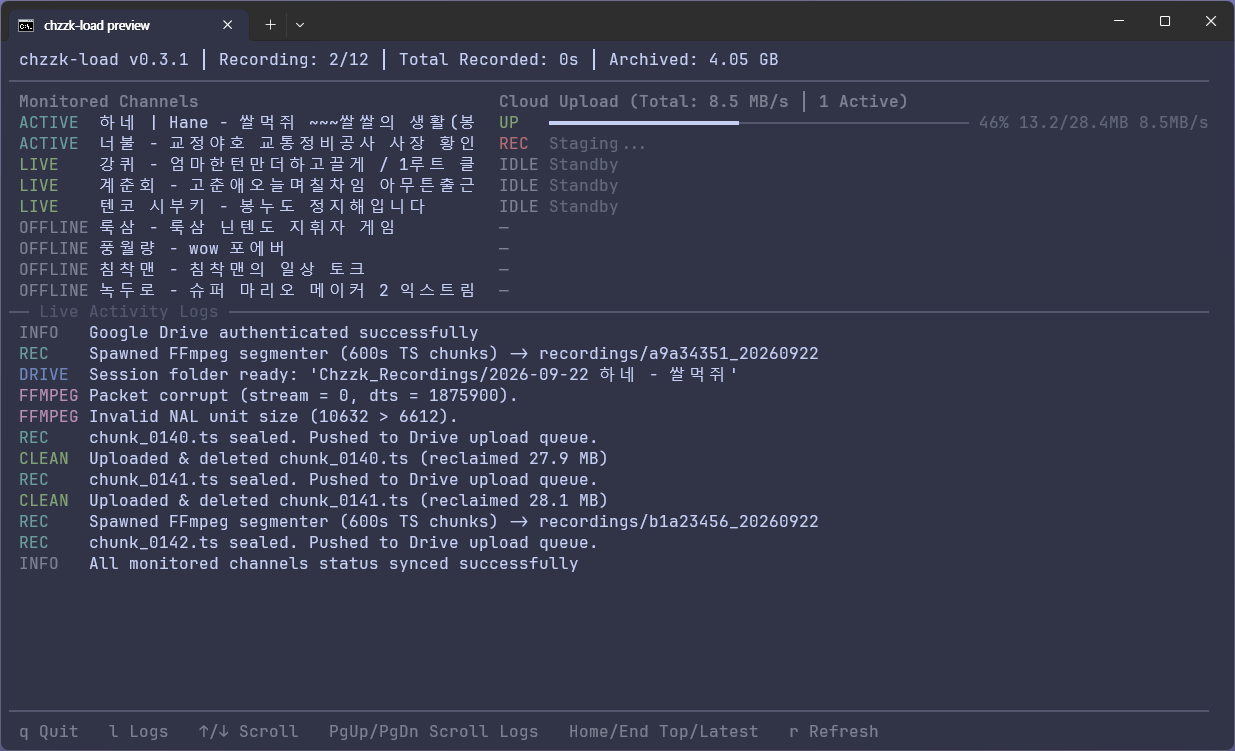
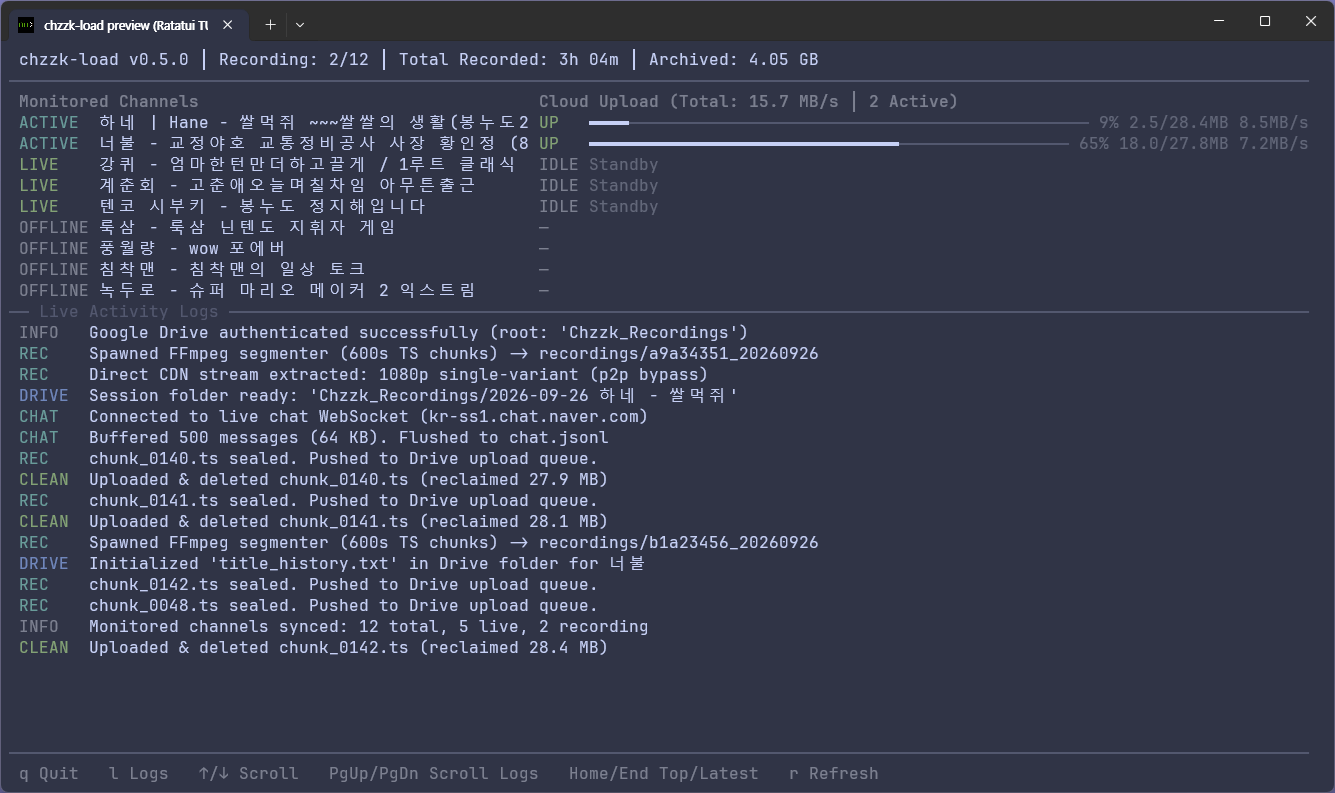
docs: update AGENTS.md, README, and preview asset for v0.5.0

Changed region(s): [[0.0, 0.0, 0.9846, 0.8269], [0.0, 0.9188, 0.9846, 1.0]]

diff --git a/AGENTS.md b/AGENTS.md
@@ -10,13 +10,16 @@ Welcome to `chzzk-load`. This document serves as the primary technical specifica
 
 ### Key System Characteristics
 - **Standalone Binary**: Compiles directly into an independent executable (`chzzk-load.exe`) runnable without Cargo or external runtime environments (FFmpeg must be installed and available on `PATH`, or configured via `CHZZK_LOAD_FFMPEG_BIN`).
-- **Zero CPU Transcoding**: Uses FFmpeg stream-copy (`-c copy`) to segment raw HLS video streams into `.ts` files with near-zero CPU and RAM overhead.
+- **Zero CPU Transcoding & Clean Termination**: Uses FFmpeg stream-copy (`-c copy`) to segment raw HLS video streams into `.ts` files with near-zero CPU and RAM overhead. HTTP reconnect flags (`-reconnect_at_eof`, etc.) are intentionally omitted to guarantee instant, clean termination upon natural stream completion.
+- **Direct CDN Stream Extraction (P2P/Grid Bypass)**: Automatically decodes base64-encoded `cdn_url` query parameters embedded in Chzzk `p2pPath` and `p2pPathUrlEncoding` payloads, extracting direct single-variant CDN HLS streams (prioritizing 1080p, 720p, and top-quality video) without requiring proprietary P2P or grid software.
 - **Real-Time Live Chat Archiving**: Concurrently connects to Chzzk chat WebSockets, capturing structured JSON Lines logs (`chat.jsonl`) with message timestamps, user badges, donation details, and raw payload.
-- **Flash-Friendly Batched I/O (SBC Optimized)**: Minimizes write cycles to protect microSD and flash memory longevity on Single Board Computers (Raspberry Pi/ARM64) using an in-memory buffer (`ChatWriter`) with dual-trigger flushing (500 messages / 64 KB capacity, or periodic timer interval).
+- **Flash-Friendly Batched I/O (SBC Optimized)**: Minimizes write cycles to protect microSD and flash memory longevity on Single Board Computers (Raspberry Pi/ARM64) using an in-memory buffer (`ChatWriter`) with direct byte-buffer serialization and dual-trigger flushing (500 messages / 64 KB capacity, or periodic timer interval).
 - **Strictly Bounded Disk Footprint**: Only 1–2 video segments reside on disk simultaneously per active stream. Chunks and completed chat logs are deleted immediately upon receiving an HTTP 200/201 upload confirmation.
 - **N+1 Segment Boundary Safety**: Chunk $N$ is only sealed and queued for upload after chunk $N+1$ exists on disk with file size $> 0$ bytes (or upon final stream termination), guaranteeing no partial chunks are uploaded.
 - **Dynamic Title Tracking & Folder Sync**: Detects stream title changes during broadcasts, records them to `title_history.txt`, and automatically synchronizes Google Drive folder names in real time.
+- **Resilient Cloud Sync with Exponential Backoff**: Caches Google Drive root folder IDs, retries transient network errors and HTTP 429 rate limits with exponential backoff, and maintains a resilient `pending_chunks` fallback queue to prevent segment loss during transient outages.
 - **Anti-Race Cache Deduplication**: Protects against Chzzk CDN cache TTL delays (10–30s) by tracking finished broadcast `live_id`s and enforcing a post-recording cooldown to prevent duplicate sessions.
+- **Event-Driven Zero-Alloc TUI**: Employs `crossterm::event::EventStream` and event-driven redraw scheduling with zero-allocation borrowed log rendering and zero CPU spinning.
 
 ---
 
@@ -39,37 +42,37 @@ chzzk-load/
 │       ├── package.json      # Wrapper package definition with optionalDependencies
 │       └── README.md
 ├── scripts/
-│   ├── prepare-npm.js        # Platform package generator & binary bundler
+│   ├── prepare-npm.js        # Platform package generator & binary bundler (--resolve-release)
 │   └── test-npm-packages.js  # Automated mock packaging & execution test suite
 ├── src/
-│   ├── main.rs               # CLI entrypoint, signals, panic hooks, TUI event loop
+│   ├── main.rs               # CLI entrypoint, signals, panic hooks, EventStream TUI render loop
 │   ├── lib.rs                # Module root and library exports
 │   ├── app_path.rs           # Portable executable-relative path resolution
-│   ├── config.rs             # Settings structs, defaults, and serde loaders (record_chat, chat_flush_interval_seconds)
+│   ├── config.rs             # Settings structs, defaults, and serde loaders (upload_concurrency, record_chat)
 │   ├── chzzk/                # Chzzk API integration
 │   │   ├── mod.rs
-│   │   ├── client.rs         # ChzzkClient: live detail polling, HLS URL extraction, chat access token API
+│   │   ├── client.rs         # ChzzkClient: live detail polling, P2P/CDN HLS URL extraction, chat token API
 │   │   ├── chat.rs           # ChzzkChatClient: WebSocket handshake (cmd: 100), ping-pong, auto-reconnect backoff
 │   │   ├── models.rs         # Data structures: LiveDetailContent, LiveStreamInfo, etc.
-│   │   └── models_chat.rs    # Chat models: ChatAccessTokenResponse, RecordedChatMessage, WebSocket packet envelopes
+│   │   └── models_chat.rs    # Chat models: ChatAccessTokenResponse, RecordedChatMessage, WebSocket envelopes
 │   ├── recorder/             # FFmpeg process management, watcher & chat writer
 │   │   ├── mod.rs
-│   │   ├── ffmpeg.rs         # Command builder (-extension_picky 0, piped stderr, CHZZK_LOAD_FFMPEG_BIN)
-│   │   ├── watcher.rs        # SegmentWatcher, N+1 chunk sealing logic
-│   │   └── chat_writer.rs    # ChatWriter: in-memory batched writer with dual-trigger flush
+│   │   ├── ffmpeg.rs         # Command builder (-extension_picky 0, clean EOF termination, CHZZK_LOAD_FFMPEG_BIN)
+│   │   ├── watcher.rs        # SegmentWatcher, N+1 chunk sealing logic, zero-alloc extension check
+│   │   └── chat_writer.rs    # ChatWriter: byte-buffer direct serializer with dual-trigger flush
 │   ├── drive/                # Google Drive API v3 client & OAuth2
 │   │   ├── mod.rs
 │   │   ├── auth.rs           # DriveAuth: PKCE authorization flow, token refresh
-│   │   └── client.rs         # DriveClient: folder search/creation, resumable uploads, rename
+│   │   └── client.rs         # DriveClient: folder caching, exponential backoff retries, resumable uploads, rename
 │   ├── uploader/             # Upload pipeline
 │   │   ├── mod.rs            # UploadTask, UploadWorker (upload-and-delete pipeline)
 │   ├── engine/               # Central orchestrator
-│   │   └── mod.rs            # EngineOrchestrator: channel polling, sessions, chat task, title history, upload consumer
+│   │   └── mod.rs            # EngineOrchestrator: channel polling, sessions, rate-limit queue, upload consumer
 │   └── tui/                  # Ratatui Dashboard
 │       ├── mod.rs
 │       ├── app.rs            # App state, key event handling, channel list state, chat_count telemetry
 │       ├── event.rs          # Central AppEvent enum (ChatStats, LogEntry::chat)
-│       └── ui.rs             # draw_ui: Layout constraints, strictly bounded logs view, chat badges
+│       └── ui.rs             # draw_ui: Layout constraints, strictly bounded zero-alloc logs view, chat badges
 └── tests/                    # Integration and smoke tests
     ├── test_app_path.rs
     ├── test_chat_client.rs
@@ -99,6 +102,9 @@ chzzk-load/
    - If valid and unrecorded, registers the channel into `active_recordings` and spawns `spawn_recording_session`.
 3. When the channel returns `status == "CLOSE"`:
    - Clears any `finished_sessions` tracking entry, resetting the channel for future broadcasts.
+4. **Non-Blocking Mutex Scoping & Rate-Limit Resiliency**:
+   - The orchestrator minimizes mutex hold times on `active_sessions` and `active_recordings`, releasing locks before issuing network requests (e.g. Drive folder creation or title sync).
+   - If Google Drive folder creation encounters transient 429 rate limits or errors, sealed chunks accumulate safely in an in-memory `pending_chunks` deque. Upon folder resolution or stream shutdown, all pending chunks are drained and dispatched to Drive, preventing segment loss.
 
 ### 3.2. FFmpeg Recording & N+1 Watcher (`src/recorder/`)
 - `build_ffmpeg_command` spawns an independent FFmpeg child process with:
@@ -107,8 +113,9 @@ chzzk-load/
   - `-c copy`: Zero re-encoding overhead.
   - `stdin(Stdio::piped())`: Enables graceful termination via `"q\n"`.
   - `stdout(Stdio::null())` & `stderr(Stdio::piped())`: Prevents raw child process output from leaking into the terminal and corrupting the TUI raw mode buffer. Stderr lines are asynchronously drained into `AppEvent::Log("[FFMPEG] ...")`.
+  - **Clean Termination on Manifest EOF**: HTTP reconnect flags (`-reconnect`, `-reconnect_at_eof`, `-reconnect_streamed`, `-reconnect_delay_max`) are intentionally omitted. When a live broadcast ends naturally, the HLS playlist reaches EOF and FFmpeg exits immediately without entering infinite reconnect retry loops.
 - `SegmentWatcher` polls the session folder every second:
-  - Finds `.ts` files sorted lexicographically (`chunk_0000.ts`, `chunk_0001.ts`, ...).
+  - Uses zero-allocation ASCII suffix matching (`s[s.len() - 3..].eq_ignore_ascii_case(".ts")`) to scan `.ts` files sorted lexicographically (`chunk_0000.ts`, `chunk_0001.ts`, ...).
   - Emits chunk $N$ as sealed only when chunk $N+1$ exists with size $> 0$.
   - When the child process exits (`is_stream_finished = true`), seals the final lingering chunk.
 
@@ -116,16 +123,19 @@ chzzk-load/
 - When `settings.general.record_chat` is enabled and `info.chat_channel_id` is present:
   1. Requests chat access token from `https://comm-api.game.naver.com/nng_main/v1/chats/access-token`.
   2. Spawns `ChzzkChatClient` connecting via WebSocket to `wss://kr-ss{n}.chat.naver.com/chat`.
-  3. Sends `cmd: 100` (`CONNECT`) handshake with 10-second read timeout. Automatically handles server ping (`cmd: 0` $\to$ pong `cmd: 10000`) and 20-second client heartbeat pings.
-  4. Parses chat messages (`cmd: 93101`, `93102`), extracting timestamp, user info, message text, donations (cheese), and raw payload.
+  3. Sends `cmd: 100` (`CONNECT`) handshake with 10-second read timeout. Automatically handles server ping (`cmd: 0` $\to$ pong `cmd: 10000`) using pre-allocated static payloads (`PING_PAYLOAD`, `PONG_PAYLOAD`) and 20-second client heartbeat pings.
+  4. Parses chat messages (`cmd: 93101`, `93102`) using zero-clone owned deserialization (`parse_chat_packet_owned`), extracting timestamp, user info, message text, donations (cheese), and raw payload.
   5. Telemetry counts are relayed non-blockingly (`try_send`) to `AppEvent::ChatStats`.
-  6. **Flash Longevity Buffer (`ChatWriter`)**: Messages are queued in memory and written to `<session_dir>/chat.jsonl` using dual-trigger flushing (500 messages or 64 KB capacity, or periodic timer interval `chat_flush_interval_seconds`). No per-message `fsync` is performed during streaming.
+  6. **Flash Longevity Buffer (`ChatWriter`)**: Messages are serialized directly into a pre-allocated byte buffer (`Vec<u8>`) using `serde_json::to_writer`, avoiding intermediate string allocations. Buffered data is written to `<session_dir>/chat.jsonl` using dual-trigger flushing (500 messages or 64 KB capacity, or periodic timer interval `chat_flush_interval_seconds`). No per-message `fsync` is performed during streaming.
   7. On session cancellation or stream termination, flushes all remaining records, guaranteeing zero lost messages.
 
 ### 3.4. Google Drive Upload Pipeline & Title History Sync (`src/drive/` & `src/uploader/`)
 - Sealed chunks are sent over an `mpsc::Sender<UploadTask>` channel to `spawn_upload_consumer_with_concurrency`.
-- **Per-Channel Serialization & Cross-Channel Concurrency**: To prevent uplink bandwidth contention, disk accumulation, and Google Drive segment ordering disruption, chunks belonging to the same channel are strictly serialized in FIFO order. Independent channels upload concurrently up to `concurrency` (default: 3) using fair round-robin scheduling.
-- **High-Throughput Streaming Buffer**: Resumable file streaming uses an 8 MiB buffer (`RESUMABLE_UPLOAD_BUFFER_SIZE`, 32 * 256 KiB) via `FramedRead`, eliminating thread-pool switching overhead and saturating uplink bandwidth on high-speed networks.
+- **Per-Channel Serialization & Cross-Channel Concurrency**: To prevent uplink bandwidth contention, disk accumulation, and Google Drive segment ordering disruption, chunks belonging to the same channel are strictly serialized in FIFO order. Independent channels upload concurrently up to `upload_concurrency` (default: 3) using fair round-robin scheduling.
+- **Root Folder ID Caching**: Root folder lookups are executed once and cached, eliminating repetitive Drive API searches.
+- **Exponential Backoff Retries**: API operations and chunk streaming use `send_with_retry`, retrying up to 3 times with exponential backoff (`100ms * 2^(attempt-1)`) on HTTP 429 rate limits or transient 5xx errors.
+- **High-Throughput Streaming Buffer**: Resumable file streaming uses a buffer dynamically clamped between 64 KiB and 8 MiB (`(file_size as usize).clamp(64 * 1024, RESUMABLE_UPLOAD_BUFFER_SIZE)`) via `FramedRead`, eliminating thread-pool switching overhead and saturating uplink bandwidth on high-speed networks.
+- **Accurate MIME Types**: Sets `video/mp2t` for video segments, `application/x-ndjson` for `chat.jsonl`, and `text/plain; charset=UTF-8` for `title_history.txt`.
 - Drive subfolders are created lazily by `process_sealed_chunk` only when the first valid chunk is confirmed sealed.
 - **Stream Title History**: If the broadcast title changes during a session, the engine appends the timestamped change to `title_history.txt`, and asynchronously renames the Google Drive folder via `drive.rename_folder`.
 - Resumable upload initiates with a `POST /upload/drive/v3/files?uploadType=resumable` metadata request, obtaining a session URI.
@@ -134,13 +144,15 @@ chzzk-load/
 - Upon recording session end, `chat.jsonl` is uploaded to the broadcast's Google Drive folder and deleted locally. If Drive is disabled, `chat.jsonl` is preserved on local disk.
 
 ### 3.5. Ratatui TUI Dashboard (`src/tui/`)
+- **Event-Driven Render Loop**: The main TUI event loop uses `crossterm::event::EventStream` and `tokio::select!` with biased selection. Rendering only executes when state actually changes (`needs_redraw = true`) or upon periodic 250ms animation ticks, eliminating idle CPU consumption.
 - Uses strict vertical layout constraints:
   - Header & Divider: `Constraint::Length(1)` each
   - Body: `Constraint::Length(10)` (or `Constraint::Fill(1)` when logs are hidden via 'l' key; horizontal split: Monitored Channels on left, Cloud Upload progress/status on right)
   - Logs Title Divider: `Constraint::Length(1)` & Logs Content: `Constraint::Fill(1)` (omitted when logs are toggled off via 'l' key)
   - Footer Divider & Keybind Footer: `Constraint::Length(1)` each
 - **Channel Row Telemetry**: Active recordings display segment count, elapsed duration, and live chat message count (`CHAT: {count}`).
-- **Log Slicing & Clipping**: Logs are flattened by `\n` to support multi-line error traces, and sliced to exactly `inner_height = log_area.height`. Lines exceeding `inner_width` are horizontally truncated with `…` to guarantee zero word-wrap overflow or terminal buffer scrolling. `[CHAT]` logs are rendered with a distinct cyan badge.
+- **Zero-Alloc Log Slicing & Clipping**: Logs are sliced directly from borrowed string lines using `.flat_map(...)` without intermediate `Vec` allocations, bounded to exactly `inner_height = log_area.height`. Lines exceeding `inner_width` are horizontally truncated with `…` to guarantee zero word-wrap overflow. `[CHAT]` logs are rendered with a distinct cyan badge.
+- **Zero-Alloc Dividers**: Horizontal dividers are generated via zero-allocation slicing of a static `HORIZONTAL_RULE` string.
 - **Log Scrolling**: Tail auto-scroll is maintained by default (`log_scroll = 0`). Users can navigate history using `PageUp`, `PageDown`, `Home`, and `End`.
 - **View Scrolling**: Channels and Cloud Upload scroll in synchronized lockstep using `Up`, `Down`, `k`, and `j`.
 
@@ -191,6 +203,7 @@ Instead of heavy Docker containers or slow QEMU system emulation for building AR
 - **Preparation Script (`scripts/prepare-npm.js`)**:
   - Dynamically constructs platform packages under `npm/platforms/` with appropriate `os`, `cpu`, and `libc` fields in their `package.json`.
   - Synchronizes versions across root and platform packages from CLI argument or `Cargo.toml`.
+  - Provides `--resolve-release` CLI option to determine tags, version, prerelease flags, and npm dist-tags for GitHub Actions workflows.
   - Copies native binary files into their respective platform packages.
 - **npm OIDC Trusted Publisher Authentication**:
   - Uses GitHub Actions OpenID Connect (OIDC) Trusted Publisher authentication. Long-lived `NPM_TOKEN` secrets are completely eliminated.
@@ -253,3 +266,6 @@ When implementing changes, AI agents must strictly preserve the following rules:
 7. **Flash Memory & Disk Wear Longevity**: Chat messages MUST NOT be synchronously flushed or fsynced to disk per message. All streaming chat writes must pass through `ChatWriter` with batching thresholds (500 msgs or 64 KB capacity, or periodic timer interval).
 8. **Non-Blocking Telemetry Backpressure**: Never block internal WebSocket reading or recording loops on TUI event channels (`try_send` should always be used for telemetry and stats reporting).
 9. **FFmpeg Binary Resolution**: `build_ffmpeg_command` must respect the `CHZZK_LOAD_FFMPEG_BIN` environment variable override before defaulting to `"ffmpeg"`.
+10. **Clean HLS Stream Termination (No Reconnect Flags)**: Never add `-reconnect` or `-reconnect_at_eof` flags to `build_ffmpeg_command`. Live HLS streams must terminate cleanly and promptly upon manifest EOF when the broadcast ends.
+11. **Non-Blocking Mutex Scoping in Engine**: Never hold the `active_sessions` or `active_recordings` mutex across asynchronous network I/O or Drive operations.
+

diff --git a/README.ko.md b/README.ko.md
@@ -17,14 +17,16 @@
 
 ## 주요 기능
 
-- ⚡ **무손실 스트림 복사 (`-c copy`)**: 라이브 HLS 비디오 스트림을 재인코딩 없이 원본 그대로 `.ts` 조각으로 분할하여 CPU 및 메모리 부하를 최소화합니다.
+- ⚡ **무손실 스트림 복사 및 깔끔한 정상 종료 (`-c copy`)**: 라이브 HLS 비디오 스트림을 재인코딩 없이 원본 그대로 `.ts` 조각으로 분할하여 CPU 및 메모리 부하를 최소화합니다. 재연결 플래그를 생략하여 방송 종료 시 HLS 매니페스트 EOF 무한 재시도 루프를 원천 차단합니다.
+- 🌐 **직접 CDN 스트림 주소 자동 추출 (P2P/그리드 우회)**: 치지직 `p2pPath` 플레이리스트에 포함된 base64 인코딩 `cdn_url` 매개변수를 자동 디코딩하여, 별도의 그리드 소프트웨어 설치 없이 원본 화질(1080p, 720p 등)의 직접 CDN HLS 스트림을 수집합니다.
 - 💬 **실시간 라이브 채팅 녹화 (`chat.jsonl`)**: WebSocket을 통해 실시간 방송 채팅을 동시 수집하여 타임스탬프, 사용자 닉네임, 뱃지, 후원(치즈) 내역, 메시지 내용이 포함된 구조화된 JSON Lines 형식으로 저장합니다.
-- 💽 **플래시 수명 보호 배치 I/O (SBC 최적화)**: 라즈베리 파이(Raspberry Pi), ARM64 등 단일 보드 컴퓨터(SBC)의 microSD 및 플래시 메모리 수명을 보존하기 위해 메모리 버퍼링 및 듀얼 트리거 플러시(500개 메시지 / 64KB 도달 또는 주기적 타이머)를 적용하여 디스크 I/O 빈도를 최소화합니다.
+- 💽 **플래시 수명 보호 배치 I/O (SBC 최적화)**: 라즈베리 파이(Raspberry Pi), ARM64 등 단일 보드 컴퓨터(SBC)의 microSD 및 플래시 메모리 수명을 보존하기 위해 바이트 버퍼 메모리 버퍼링 및 듀얼 트리거 플러시(500개 메시지 / 64KB 도달 또는 주기적 타이머)를 적용하여 디스크 쓰기 빈도를 최소화합니다.
 - 🏷 **실시간 방송 제목 추적 및 폴더 동기화**: 방송 중 변경되는 방제를 자동으로 감지하여 `title_history.txt`에 기록하고, Google Drive의 폴더 이름을 최신 방제로 실시간 자동 갱신합니다.
 - 💾 **엄격히 제한된 디스크 사용량**: 활성 스트림당 최대 1~2개의 세그먼트 파일만 로컬 디스크에 유지합니다. 클라우드 업로드 완료가 확인되는 즉시 영상 세그먼트와 채팅 로그 파일은 로컬에서 영구 삭제됩니다.
 - 🛡 **N+1 세그먼트 경계 안전성**: $N$번째 청크는 다음 $N+1$번째 청크가 디스크에 생성(파일 크기 > 0)된 것이 확인된 후에만 업로드 큐로 전달되어, 불완전하거나 손상된 청크의 업로드를 원천 차단합니다.
-- ☁ **Google Drive 이어올리기(Resumable) 및 로컬 폴백**: Google Drive API v3 및 자동 PKCE OAuth2 인증을 통한 클라우드 실시간 전송을 지원합니다. Google Drive 인증 설정이 없으면 자동으로 로컬 단독 녹화 모드로 동작합니다.
-- 🖥 **대화형 터미널 대시보드 (TUI)**: 실시간 채널 상태, 방송 제목, 실시간 수집 채팅 수 카운터, 업로드 진행률 게이지, 전송 속도 지표뿐만 아니라 헤더 요약 통계(활성 녹화 수, 누적 녹화 시간, 아카이브 용량), 로그 토글 기능(`l` 키), Windows 콘솔 UTF-8 코드페이지 자동 설정을 지원합니다.
+- ☁ **안정적인 Google Drive 이어올리기 및 로컬 폴백**: Google Drive API v3 및 자동 PKCE OAuth2 인증을 통한 클라우드 실시간 전송을 지원합니다. 루트 폴더 캐싱 및 지수 백오프 재시도(HTTP 429 및 5xx 대응)를 갖추고 있으며, Google Drive 인증 설정이 없으면 자동으로 로컬 단독 녹화 모드로 동작합니다.
+- 🔀 **채널별 순차 직렬화 & 다중 스트림 동시 업로드**: 동일 채널의 세그먼트는 순차(FIFO) 업로드를 보장하여 순서 꼬임과 대역폭 경합을 방지하며, 여러 채널 간에는 최대 `upload_concurrency`(기본값: 3)개까지 병렬 업로드합니다.
+- 🖥 **이벤트 기반 터미널 대시보드 (TUI)**: `crossterm::event::EventStream` 기반의 비동기 이벤트 루프와 제로 메모리 할당 렌더링으로 유휴 CPU 점유율을 0으로 억제하며, 실시간 채널 상태, 방송 제목, 실시간 수집 채팅 수 카운터, 업로드 진행률 게이지, 전송 속도 지표, 헤더 요약 통계(활성 녹화 수, 누적 녹화 시간, 아카이브 용량), 로그 토글 기능(`l` 키), Windows 콘솔 UTF-8 코드페이지 자동 설정을 지원합니다.
 - 🔄 **CDN 캐시 지연 중복 방지 (Anti-Race)**: 방송 종료 후 쿨다운 적용 및 방송 고유 세션 ID(`live_id`) 추적을 통해 치지직 CDN 캐시 지연(10~30초)으로 인한 중복 세션 생성을 방지합니다.
 
 ---
@@ -77,7 +79,8 @@ chzzk-load --config /path/to/my-settings.json
   "google_drive": {
     "credentials_path": "credentials.json",
     "token_path": "token.json",
-    "root_folder_name": "Chzzk_Recordings"
+    "root_folder_name": "Chzzk_Recordings",
+    "upload_concurrency": 3
   },
   "chzzk": {
     "nid_aut": "",
@@ -106,6 +109,7 @@ chzzk-load --config /path/to/my-settings.json
 | `google_drive.credentials_path` | `"credentials.json"` | Google Cloud에서 발급받은 OAuth2 데스크톱 클라이언트 비밀번호 파일 경로. |
 | `google_drive.token_path` | `"token.json"` | 발급받은 OAuth2 인증 토큰이 자동 저장 및 갱신되는 파일 경로. |
 | `google_drive.root_folder_name` | `"Chzzk_Recordings"` | Google Drive 내에 녹화 파일들이 업로드될 루트 폴더 이름. |
+| `google_drive.upload_concurrency` | `3` | 채널 간 동시 업로드 가능한 최대 스트림 수 (동일 채널 내 청크는 엄격한 FIFO 순서로 직렬 업로드됨). |
 | `chzzk.nid_aut` / `nid_ses` | `""` | 연령 제한 또는 구독자 전용 방송 녹화를 위한 네이버 로그인 세션 쿠키 값 (선택 사항). |
 | `channels` | - | 모니터링할 치지직 채널 목록 (`id`: 채널 URL의 고유 식별자, `name`: TUI 표시용 이름). |
 

diff --git a/README.md b/README.md
@@ -17,14 +17,16 @@ A high-performance, standalone tool for automated Naver Chzzk live stream record
 
 ## Key Features
 
-- ⚡ **Lossless Stream-Copy (`-c copy`)**: Segments live HLS video streams into `.ts` chunks with zero CPU transcoding overhead.
+- ⚡ **Lossless Stream-Copy & Clean EOF (`-c copy`)**: Segments live HLS video streams into `.ts` chunks with zero CPU transcoding overhead. Omits reconnect flags to eliminate infinite HLS manifest EOF retry loops upon natural stream completion.
+- 🌐 **Direct CDN Stream Extraction (P2P/Grid Bypass)**: Automatically decodes base64-encoded `cdn_url` parameters from Chzzk `p2pPath` playlists, pulling direct 1080p/720p CDN HLS streams without requiring P2P or grid software.
 - 💬 **Real-Time Live Chat Recording (`chat.jsonl`)**: Simultaneously captures live chat via WebSocket into structured JSON Lines format, preserving timestamps, user nicknames, badges, donations/cheeses, and message text.
-- 💽 **Flash-Friendly Batched I/O (SBC Optimized)**: Minimizes write cycles to protect microSD card and flash storage longevity on Single Board Computers (Raspberry Pi, ARM64) using in-memory buffering with dual-trigger flushing (500 messages / 64 KB capacity, or periodic timer interval).
+- 💽 **Flash-Friendly Batched I/O (SBC Optimized)**: Minimizes write cycles to protect microSD card and flash storage longevity on Single Board Computers (Raspberry Pi, ARM64) using in-memory byte buffering with dual-trigger flushing (500 messages / 64 KB capacity, or periodic timer interval).
 - 🏷 **Dynamic Title Tracking & Folder Sync**: Detects stream title changes during broadcasts, records them to `title_history.txt`, and automatically updates Google Drive folder names in real-time.
-- 💾 **Strictly Bounded Disk Footprint**: Only 1–2 video segments reside on disk per active stream. Chunks and completed chat logs are permanently deleted immediately upon verified cloud upload.
+- 💾 **Strictly Bounded Disk Footprint**: Only 1–2 video segments reside on disk simultaneously per active stream. Chunks and completed chat logs are permanently deleted immediately upon verified cloud upload.
 - 🛡 **N+1 Segment Boundary Safety**: Chunk $N$ is sealed and uploaded only when chunk $N+1$ exists on disk with size $> 0$, preventing partial or corrupted uploads.
-- ☁ **Resumable Google Drive Sync & Local Fallback**: Direct cloud upload via Google Drive API v3 with automatic PKCE OAuth2 authorization. Runs in local-only recording mode if Google Drive credentials are omitted.
-- 🖥 **Interactive Terminal Dashboard**: Real-time channel states, live stream titles, chat message counters, upload progress gauges, transfer speed metrics, header statistics (active recordings, total duration, archived size), collapsible activity logs (`l` key), and native Windows UTF-8 console code page support.
+- ☁ **Resilient Google Drive Sync & Local Fallback**: Direct cloud upload via Google Drive API v3 with automatic PKCE OAuth2 authorization, root folder caching, and exponential backoff retries (HTTP 429 & 5xx). Runs in local-only recording mode if Google Drive credentials are omitted.
+- 🔀 **Intra-Channel FIFO Serialization & Multi-Stream Concurrency**: Guarantees segments belonging to the same stream upload strictly in sequential order while uploading across different channels concurrently (up to `upload_concurrency`, default: 3).
+- 🖥 **Event-Driven Terminal Dashboard**: Powered by `crossterm::event::EventStream` with zero-allocation rendering, real-time channel states, live stream titles, chat message counters, upload progress gauges, transfer speed metrics, header statistics (active recordings, total duration, archived size), collapsible activity logs (`l` key), and native Windows UTF-8 console support.
 - 🔄 **Anti-Race Cache Protection**: Enforces post-recording cooldown and tracks broadcast session IDs to prevent duplicate recording triggers caused by CDN cache TTL delays.
 
 ---
@@ -77,7 +79,8 @@ On first startup, `chzzk-load` generates a default `settings.json` template in t
   "google_drive": {
     "credentials_path": "credentials.json",
     "token_path": "token.json",
-    "root_folder_name": "Chzzk_Recordings"
+    "root_folder_name": "Chzzk_Recordings",
+    "upload_concurrency": 3
   },
   "chzzk": {
     "nid_aut": "",
@@ -106,6 +109,7 @@ On first startup, `chzzk-load` generates a default `settings.json` template in t
 | `google_drive.credentials_path` | `"credentials.json"` | Path to Google OAuth2 Desktop client secrets file. |
 | `google_drive.token_path` | `"token.json"` | Path to saved OAuth2 authorization tokens file. |
 | `google_drive.root_folder_name` | `"Chzzk_Recordings"` | Destination folder name created in Google Drive. |
+| `google_drive.upload_concurrency` | `3` | Maximum number of concurrent channel upload streams (intra-channel uploads remain strictly serialized). |
 | `chzzk.nid_aut` / `nid_ses` | `""` | Optional Naver session cookies for adult/subscriber-only streams. |
 | `channels` | - | List of monitored Chzzk channels (`id` from channel URL, `name` for display). |
 
